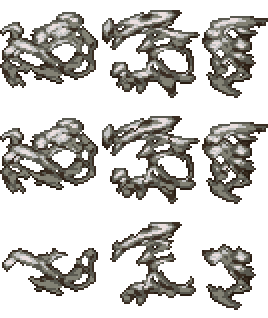
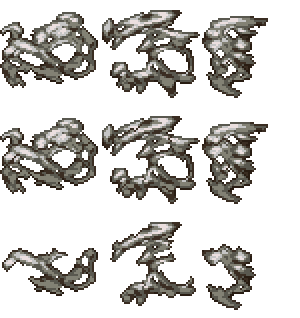
Fixed apparently malformed WC armor spritesheet

diff --git a/OriginsModIntegrations.cs b/OriginsModIntegrations.cs
@@ -61,6 +61,7 @@ using Terraria.GameContent;
 using Origins.NPCs.Corrupt;
 using Origins.NPCs.Crimson;
 using Terraria.DataStructures;
+using Microsoft.Xna.Framework.Input;
 
 namespace Origins {
 	public class OriginsModIntegrations : ILoadable {
@@ -157,6 +158,46 @@ namespace Origins {
 		}
 		static Func<bool> HolidayLibCheckAprilFools(Mod HolidayLib) => (Func<bool>)HolidayLib.Call("GETACTIVELOOKUP", "April fools");
 		static bool DefaultCheckAprilFools() => (DateTime.Today.Month == 4 && DateTime.Today.Day == 1) || Instance.ForceAF;
+		static class BCSpriteConstructor {
+			public static List<(int part, Vector2 pos, float rot, SpriteEffects effects)> parts = [];
+			public static int partNum = 0;
+			public static Vector2 partPos = default;
+			public static float partRot = 0;
+			public static SpriteEffects partEffects = SpriteEffects.None;
+			public static MouseState oldMouse = default;
+			public static KeyboardState oldKeyboard = default;
+			public static void SetupArrangement(int maxParts) {
+				if (!DebugConfig.Instance.DebugMode) return;
+				MouseState currentMouse = Mouse.GetState();
+				KeyboardState currentKB = Keyboard.GetState();
+				parts.RemoveAll(p => p.part < 0 || p.part > maxParts);
+				if (partNum < 0) partNum = maxParts;
+				if (partNum > maxParts) partNum = 0;
+				if (Main.hasFocus) {
+					partPos = Main.MouseScreen;
+					int scrollDiff = currentMouse.ScrollWheelValue - oldMouse.ScrollWheelValue;
+					if (scrollDiff != 0) {
+						if (currentMouse.RightButton == ButtonState.Pressed) {
+							partRot += scrollDiff * 0.001f;
+						} else {
+							partNum += scrollDiff / 120;
+							if (partNum < 0) partNum = maxParts;
+							if (partNum > maxParts) partNum = 0;
+						}
+					}
+					if (currentMouse.XButton1 == ButtonState.Pressed && oldMouse.XButton1 == ButtonState.Released) partEffects ^= SpriteEffects.FlipHorizontally;
+					if (currentMouse.XButton2 == ButtonState.Pressed && oldMouse.XButton2 == ButtonState.Released) partEffects ^= SpriteEffects.FlipVertically;
+					if (currentMouse.XButton2 == ButtonState.Pressed && oldMouse.XButton2 == ButtonState.Released) partEffects ^= SpriteEffects.FlipVertically;
+					if (currentMouse.LeftButton == ButtonState.Pressed && oldMouse.LeftButton == ButtonState.Released) parts.Add((partNum, partPos, partRot, partEffects));
+					if (parts.Count > 0 && currentKB.IsKeyDown(Keys.Back) && oldKeyboard.IsKeyUp(Keys.Back)) parts.RemoveAt(parts.Count - 1);
+					if (parts.Count > 0 && currentKB.IsKeyDown(Keys.End) && oldKeyboard.IsKeyUp(Keys.End)) {
+						Origins.instance.Logger.Info(string.Join('\n', parts.Select(p => $"{p.part}, new({p.pos.X},{p.pos.Y}), {p.rot}f, SpriteEffects.{p.effects}")));
+					}
+				}
+				oldMouse = currentMouse;
+				oldKeyboard = currentKB;
+			}
+		}
 		public static void PostSetupContent(Mod mod) {
 			if (ModLoader.TryGetMod("BossChecklist", out Mod bossChecklist)) {
 				static Func<bool> IfEvil<T>() where T : AltBiome {
@@ -269,18 +310,25 @@ namespace Origins {
 								if (frame.HasValue) origin = frame.Value.Size() * 0.5f;
 								return new DrawData(texture, pos, frame, Color.White, rot, origin, 1, effects);
 							}
+							BCSpriteConstructor.SetupArrangement(4);
 							DrawData[] datas = [
-
+								..BCSpriteConstructor.parts.Select(d => MakeData(d.part, d.pos, d.rot, d.effects)),
+								MakeData(BCSpriteConstructor.partNum, BCSpriteConstructor.partPos, BCSpriteConstructor.partRot, BCSpriteConstructor.partEffects)
 							];
 							for (int i = 0; i < datas.Length; i++) {
 								datas[i].Draw(spriteBatch);
 							}
 							for (int i = 0; i < datas.Length; i++) {
-								if (i == 0) {
+								if (datas[i].texture == wcHeadTexture.Value) {
 									datas[i].texture = wcHeadArmorTexture.Value;
-									datas[i].origin += new Vector2(-15, 8).Apply(datas[i].effect, default);
-								} else if (i != datas.Length - 1) {
+									Rectangle frame = wcHeadArmorTexture.Frame(4, 3);
+									datas[i].sourceRect = frame;
+									datas[i].origin = frame.Size() * 0.5f + new Vector2(15, 8).Apply(datas[i].effect, default);
+								} else if (datas[i].texture == wcBodyTexture.Value) {
 									datas[i].texture = wcArmorTexture.Value;
+									Rectangle frame = wcArmorTexture.Frame(3, 3, frameX: datas[i].sourceRect.Value.X / wcBodyTexture.Frame(3).Width);
+									datas[i].sourceRect = frame;
+									datas[i].origin = frame.Size() * 0.5f;
 								} else continue;
 								datas[i].Draw(spriteBatch);
 							}
